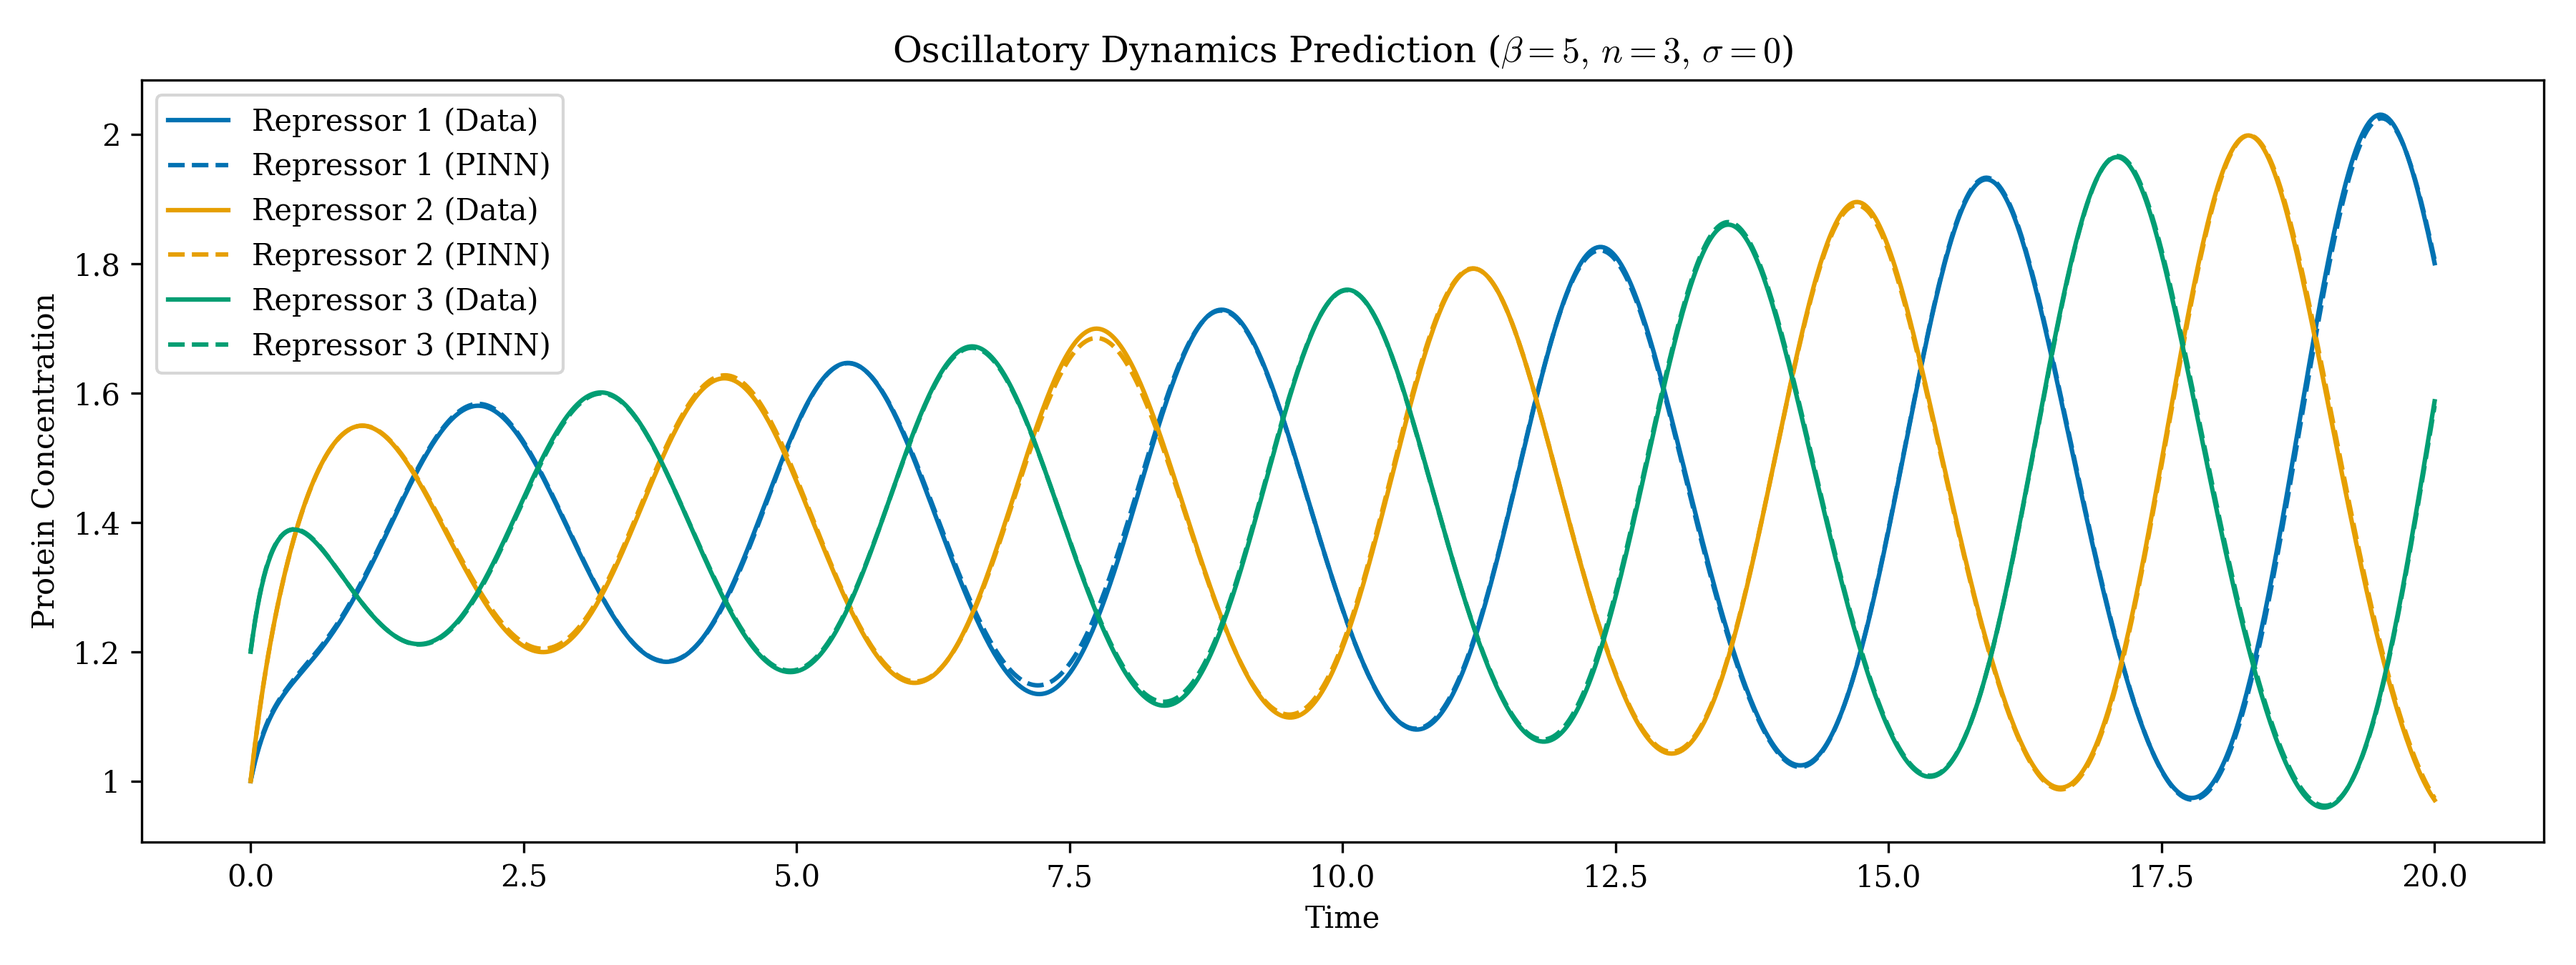
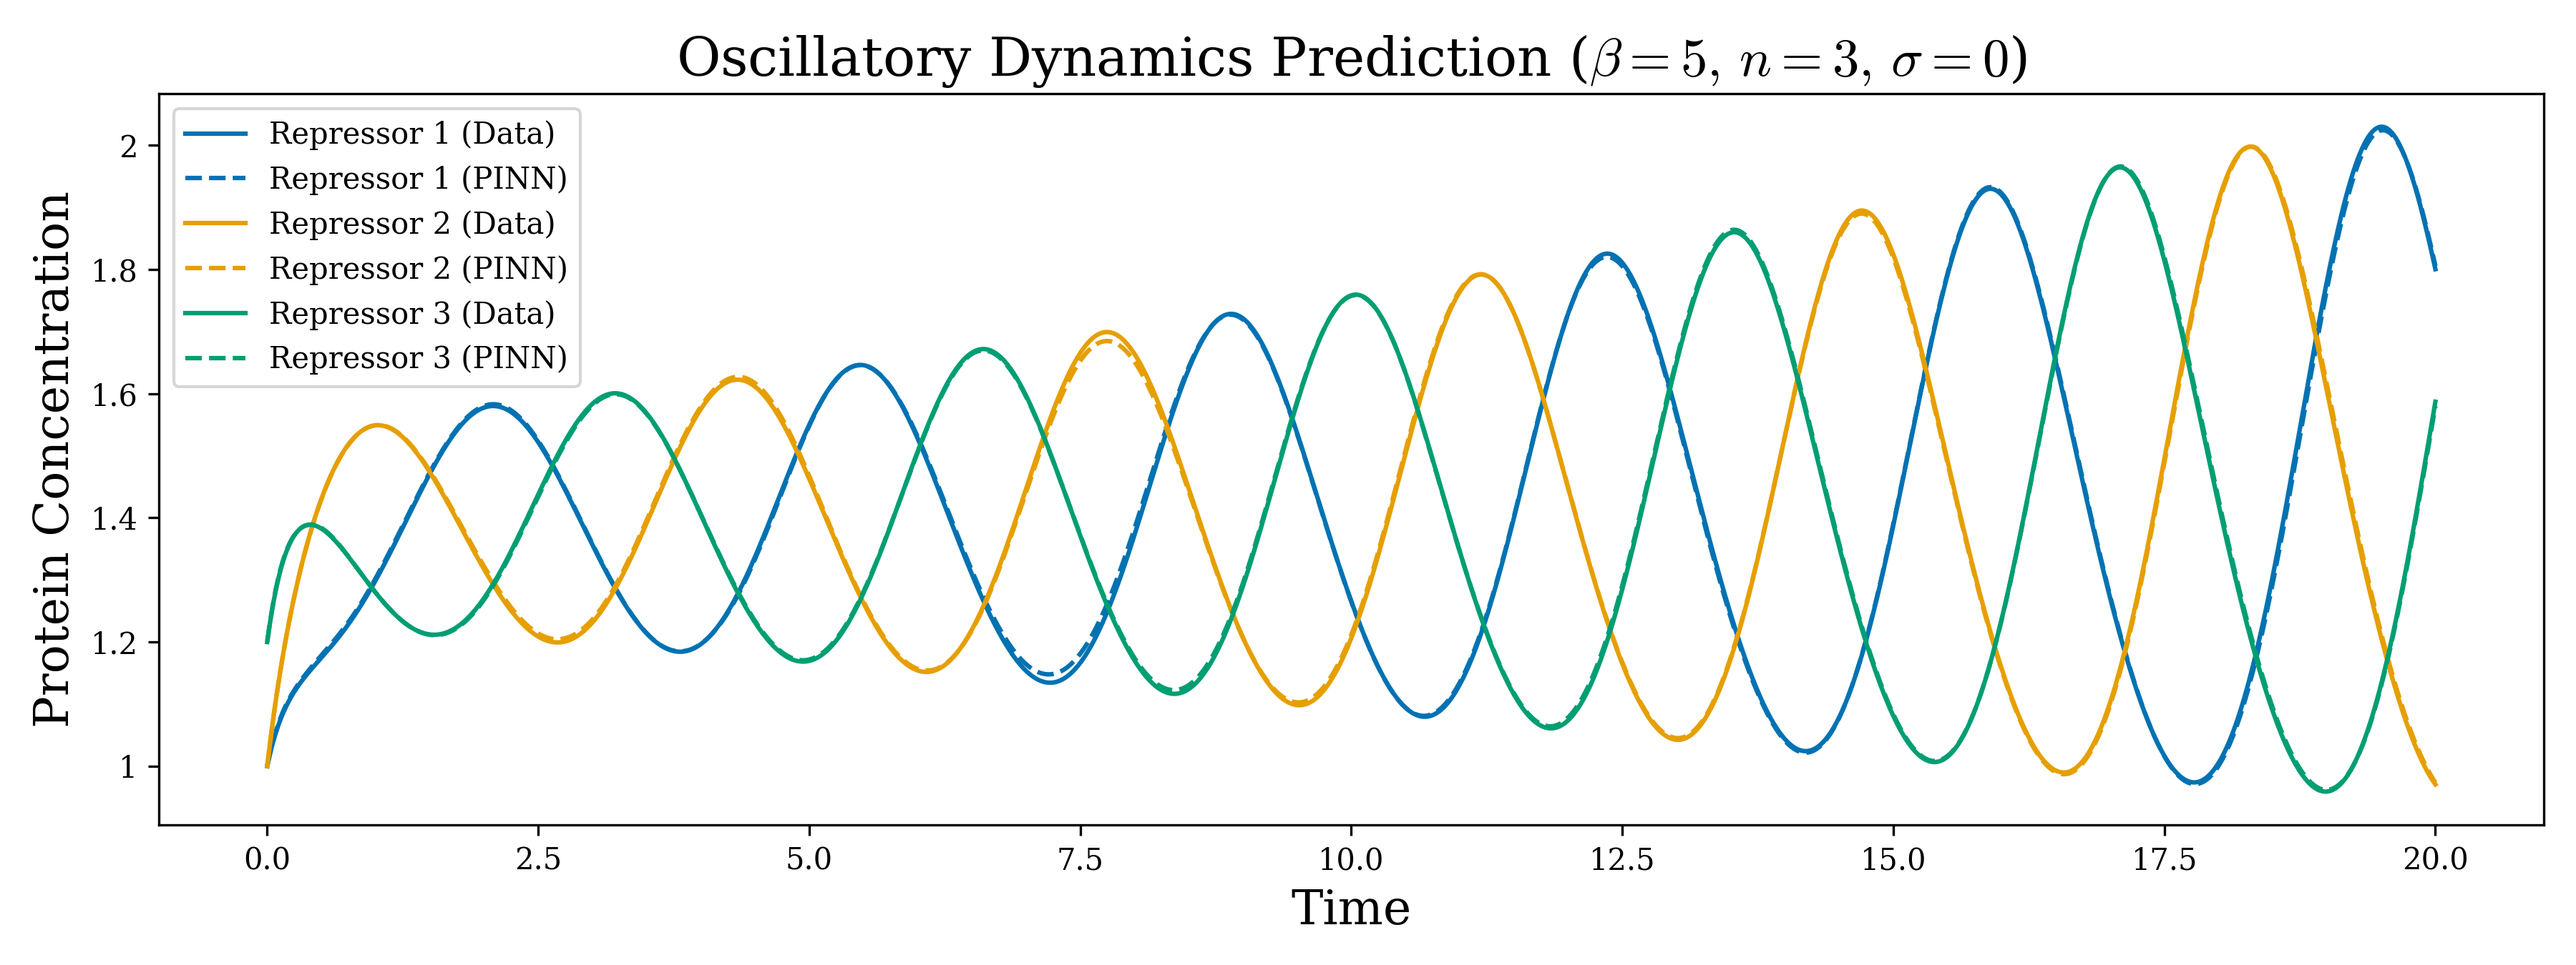
new fig axis fonts

Changed region(s): [[0.0, 0.0311, 0.9956, 0.9644], [0.8089, 0.1556, 0.8711, 0.4978], [0.0311, 0.7778, 0.0622, 0.84]]

diff --git a/scripts/experiments/exp1_noise_sweep.py b/scripts/experiments/exp1_noise_sweep.py
@@ -173,6 +173,16 @@ def main():
                 }
             )
 
+    build_outputs(raw_rows, results_dir, figure_path)
+
+
+def build_outputs(raw_rows, results_dir, figure_path):
+    """Aggregate raw per-run rows into summary/significance CSVs and the figure.
+
+    Split out from main() so the figure can be regenerated (e.g. after a
+    styling tweak) from an existing exp1_noise_sweep_raw.csv without rerunning
+    the full PINN/classical-fitting sweep.
+    """
     summary_rows = aggregate_metrics(
         raw_rows,
         group_keys=["noise_level"],
@@ -295,9 +305,13 @@ def main():
         if show_eb:
             ax.fill_between(positions, m - s, m + s, color=color, alpha=0.15, zorder=3)
 
+    LABEL_FONTSIZE = 14
+    TITLE_FONTSIZE = 16
+    TITLE_FONTSIZE_LONG = 13
+
     def _xformat(ax):
         ax.set_xticks(positions, noise_labels)
-        ax.set_xlabel(r"Relative $\sigma$")
+        ax.set_xlabel(r"Relative $\sigma$", fontsize=LABEL_FONTSIZE)
 
     def _jt_annotation(ax, p_value):
         label = f"JT: {format_p_value_label(p_value)} {p_value_to_stars(p_value)}".strip()
@@ -307,16 +321,16 @@ def main():
     _ribbon(axes[0, 0], PINN_COLOR, None, beta_means, beta_stds, marker="o")
     _jt_annotation(axes[0, 0], jt_p_beta)
     _xformat(axes[0, 0])
-    axes[0, 0].set_ylabel("Relative Error")
-    axes[0, 0].set_title(r"$\beta$ Recovery")
+    axes[0, 0].set_ylabel("Relative Error", fontsize=LABEL_FONTSIZE)
+    axes[0, 0].set_title(r"$\beta$ Recovery", fontsize=TITLE_FONTSIZE)
     _label(axes[0, 0], 'A')
 
     # Panel B: n recovery (PINN only) + JT trend annotation
     _ribbon(axes[0, 1], PINN_COLOR, None, n_means, n_stds)
     _jt_annotation(axes[0, 1], jt_p_n)
     _xformat(axes[0, 1])
-    axes[0, 1].set_ylabel("Relative Error")
-    axes[0, 1].set_title(r"$n$ Recovery")
+    axes[0, 1].set_ylabel("Relative Error", fontsize=LABEL_FONTSIZE)
+    axes[0, 1].set_title(r"$n$ Recovery", fontsize=TITLE_FONTSIZE)
     _label(axes[0, 1], 'B')
 
     # Panel C: combined parameter error — PINN vs L-BFGS-B
@@ -324,8 +338,8 @@ def main():
     _ribbon(axes[1, 0], CLASSICAL_COLOR, "L-BFGS-B",
             cls_param_means, cls_param_stds, linestyle="--", marker="s")
     _xformat(axes[1, 0])
-    axes[1, 0].set_ylabel("Error")
-    axes[1, 0].set_title("Parameter Recovery — PINN vs L-BFGS-B")
+    axes[1, 0].set_ylabel("Error", fontsize=LABEL_FONTSIZE)
+    axes[1, 0].set_title("Parameter Recovery — PINN vs L-BFGS-B", fontsize=TITLE_FONTSIZE_LONG)
     axes[1, 0].legend(fontsize=8, handlelength=3)
     _label(axes[1, 0], 'C')
 
@@ -334,8 +348,8 @@ def main():
     _ribbon(axes[1, 1], CLASSICAL_COLOR, "L-BFGS-B",
             cls_state_means, cls_state_stds, linestyle="--", marker="s")
     _xformat(axes[1, 1])
-    axes[1, 1].set_ylabel("State RMSE")
-    axes[1, 1].set_title("Trajectory Reconstruction — PINN vs L-BFGS-B")
+    axes[1, 1].set_ylabel("State RMSE", fontsize=LABEL_FONTSIZE)
+    axes[1, 1].set_title("Trajectory Reconstruction — PINN vs L-BFGS-B", fontsize=TITLE_FONTSIZE_LONG)
     axes[1, 1].legend(fontsize=8, handlelength=3)
     _label(axes[1, 1], 'D')
 

diff --git a/scripts/figures/dynamics.py b/scripts/figures/dynamics.py
@@ -76,14 +76,15 @@ def _run_or_load(case, seed):
     return t, y_true, y_pred
 
 
-def _plot_panel(ax, t, y_true, y_pred, case, xlim=None, show_panel=True, title=None):
+def _plot_panel(ax, t, y_true, y_pred, case, xlim=None, show_panel=True, title=None,
+                 label_fontsize=None, title_fontsize=None):
     t_flat = t.flatten()
     for i in range(3):
         ax.plot(t_flat, y_true[:, i], "-",  color=COLORS[i], label=f"{REPRESSORS[i]} (Data)")
         ax.plot(t_flat, y_pred[:, i], "--", color=COLORS[i], label=f"{REPRESSORS[i]} (PINN)")
-    ax.set_xlabel("Time")
-    ax.set_ylabel("Protein Concentration")
-    ax.set_title(title if title is not None else case["title"])
+    ax.set_xlabel("Time", fontsize=label_fontsize)
+    ax.set_ylabel("Protein Concentration", fontsize=label_fontsize)
+    ax.set_title(title if title is not None else case["title"], fontsize=title_fontsize)
     ax.legend()
     if xlim is not None:
         ax.set_xlim(xlim)
@@ -113,7 +114,8 @@ def main_oscillatory():
     case = CASES[0]  # oscillatory
     t, y_true, y_pred = _run_or_load(case, SEED)
     _plot_panel(ax, t, y_true, y_pred, case, show_panel=False,
-                title=r"Oscillatory Dynamics Prediction ($\beta=5,\,n=3,\,\sigma=0$)")
+                title=r"Oscillatory Dynamics Prediction ($\beta=5,\,n=3,\,\sigma=0$)",
+                label_fontsize=16, title_fontsize=18)
 
     finalize_figure(FIGURE_PATH_OSC)
     print(f"Saved: {FIGURE_PATH_OSC}")
